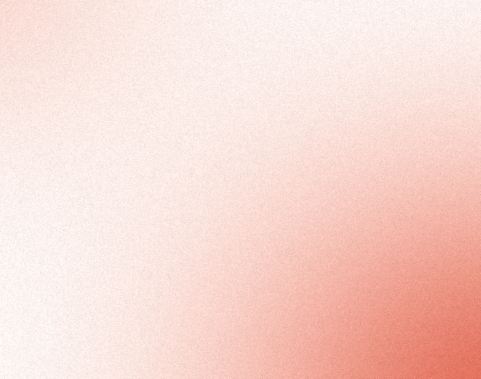
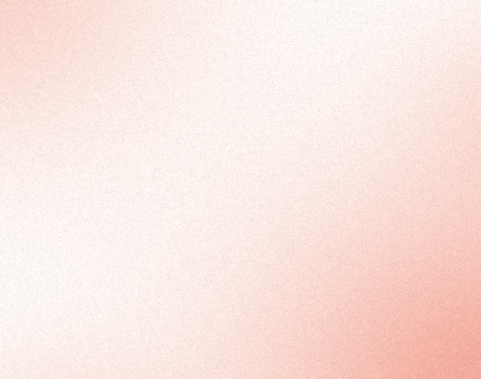
Corner glow: spread the red over several soft glows, keep open white
Claude-Session: https://claude.ai/code/session_01Lo4DwFPGkBZy1W7n1vwAfb

Changed region(s): [[0.4366, 0.4354, 1.0, 1.0]]

diff --git a/backgrounds/make_gradients.py b/backgrounds/make_gradients.py
@@ -72,9 +72,11 @@ def render(spots, scale, seed):
 
 
 VARIANTS = {
-    # Warm glow rising from the bottom-right corner, a faint echo top-left.
-    # The corner reaches a slightly lighter #D33C27.
-    "corner-glow": [(1.06, 1.10, 0.58, 0.66, 0.52), (-0.08, -0.10, 0.45, 0.50, 0.12)],
+    # Light, airy: the red is spread over several soft glows (bottom right,
+    # top left, a touch on the right edge and bottom left) with open white
+    # between them. Strengths are before the RED multiplier.
+    "corner-glow": [(1.05, 1.07, 0.52, 0.56, 0.31), (-0.06, -0.08, 0.42, 0.46, 0.15),
+                    (1.10, 0.30, 0.24, 0.28, 0.09), (0.12, 1.14, 0.30, 0.22, 0.08)],
     # A gentle diagonal wash, strongest along the bottom edge.
     "diagonal-wash": [(0.85, 1.25, 0.95, 0.65, 0.26), (0.10, 1.10, 0.55, 0.45, 0.14), (0.95, -0.15, 0.35, 0.35, 0.07)],
     # Soft haze hanging from the top, the centre stays clean white.
